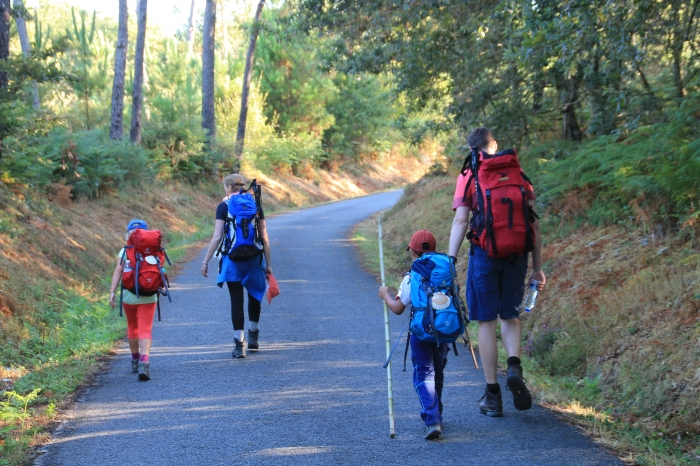
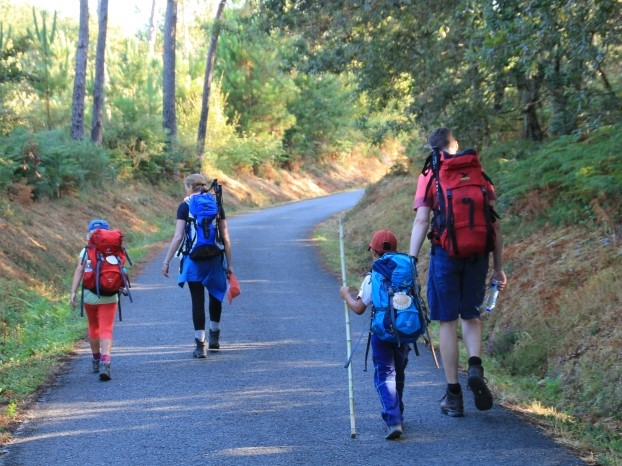
Añadidas fotos y reducido tamaño

diff --git a/WEB/html/home.php b/WEB/html/home.php
@@ -144,19 +144,19 @@
         <!-- imágenes circulares y botones-->  
         <section class="row"  >
           <div class="col-md-3" id="circ1">
-             <img src="../imagenes/home_packs_despedida.jpg" alt="imagen aventura despedidas" title="imagen aventura despedidas"></img>
+             <img src="../imagenes/home_packs_despedida2.jpg" alt="imagen aventura despedidas" title="imagen aventura despedidas"></img>
              <a href="packs.php"><div class="boton" id="boton1"> DESPEDIDAS</div></a>
           </div>
           <div class="col-md-3" id="circ2">
-             <img src="../imagenes/home_packs_grupos .jpg" alt="imagen aventura grupos" title="imagen aventura grupos"></img>
+             <img src="../imagenes/home_packs_grupos1.jpg" alt="imagen aventura grupos" title="imagen aventura grupos"></img>
              <a href="packs.php"><div class="boton" id="boton2"> GRUPOS</div></a>
           </div>
           <div class="col-md-3" id="circ3">
-             <img src="../imagenes/home_packs_familias.jpg" alt="imagen aventura familias" title="imagen aventura familias"></img>
+             <img src="../imagenes/home_packs_familias1.jpg" alt="imagen aventura familias" title="imagen aventura familias"></img>
              <a href="packs.php"><div class="boton" id="boton3"> FAMILIAS</div></a>
           </div>
           <div class="col-md-3" id="circ4">
-             <img src="../imagenes/home_packs_parejas.jpg" alt="imagen aventura parejas" title="imagen aventura parejas"></img>
+             <img src="../imagenes/home_packs_parejas1.jpg" alt="imagen aventura parejas" title="imagen aventura parejas"></img>
              <a href="packs.php"><div  class="boton" id="boton4"> PAREJAS</div></a>
           </div>
         </section>
